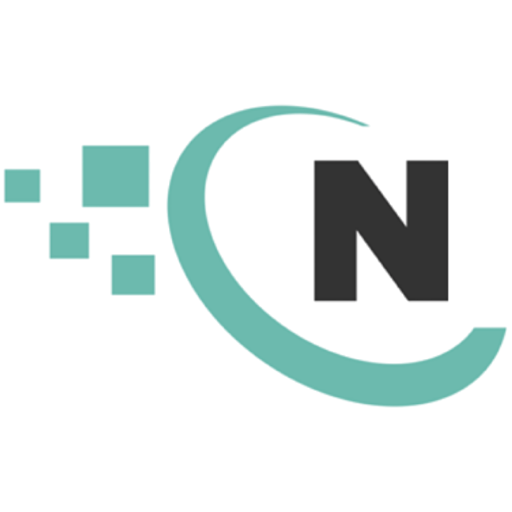
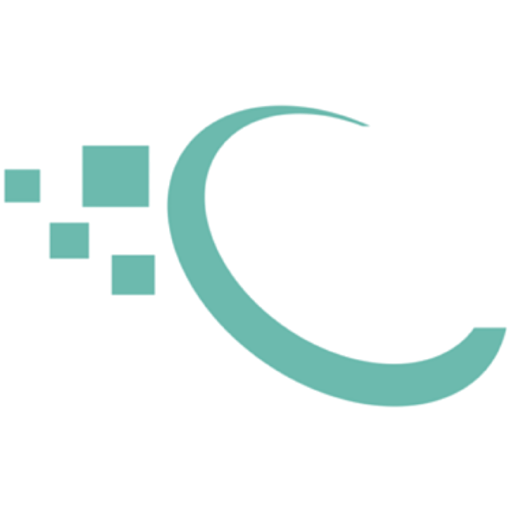
style(layout): exibir simbolo oficial da Nacif no menu lateral recolhido

Changed region(s): [[0.5938, 0.3125, 0.875, 0.5938]]

diff --git a/src/components/Layout.jsx b/src/components/Layout.jsx
@@ -79,6 +79,7 @@ function BrandLogo({ branding, compact = false, className = "" }) {
       url.includes("Logo-Principal") ||
       url.includes("Logo-black") ||
       url.includes("Logo-white") ||
+      url.includes("lg.png") ||
       url === branding?.logoDataUrl
     );
   };
@@ -96,7 +97,7 @@ function BrandLogo({ branding, compact = false, className = "" }) {
       <img
         src={logo}
         alt={`${branding?.appName || "Nacif"} ${branding?.appSuffix || "Electric"}`}
-        className={`h-full w-full object-contain ${compact ? "object-center" : "object-left"}`}
+        className={`h-full w-full object-contain transition-transform duration-200 group-hover:scale-105 ${compact ? "object-center" : "object-left"}`}
         onError={(e) => {
           const fallback = compact ? "/brand-mark-principal.png" : "/brand-logo-principal.png";
           if (e.currentTarget.src !== fallback) {
@@ -396,7 +397,7 @@ export default function Layout() {
         >
           <Link
             to="/"
-            className={`flex items-center transition-all ${
+            className={`group flex items-center transition-all ${
               sidebarCollapsed
                 ? "h-10 w-10 mx-auto justify-center rounded-xl hover:bg-[#F8FAFC]"
                 : "h-10 items-center gap-3 overflow-hidden"

diff --git a/dist/index.html b/dist/index.html
@@ -12,7 +12,7 @@
     <link rel="manifest" href="/manifest.json" />
     <title>NACIF Solutions Eletric — Gerador de Quadros Elétricos NBR 5410</title>
     <meta name="description" content="Geração automática de quadros elétricos, balanceamento de fases, diagrama unifilar e orçamento profissional conforme NBR 5410." />
-    <script type="module" crossorigin src="/assets/app-BcLLkH_F.js"></script>
+    <script type="module" crossorigin src="/assets/app-U09kMGsW.js"></script>
     <link rel="stylesheet" crossorigin href="/assets/app-BzUIQH4F.css">
   </head>
   <body>

diff --git a/src/lib/brandingDefaults.js b/src/lib/brandingDefaults.js
@@ -9,4 +9,4 @@ export const WEG_BLUE_DEEP = "#0f4f49";
 export const WEG_BLUE_SOFT = "#E8FCF8";
 export const WEG_BLUE_TINT = "#F2FFFC";
 export const WEG_BLUE_BORDER = "#BCEEE5";
-export const WEG_BRANDING_VERSION = "nacif-logo-2026-10-13-v2";
+export const WEG_BRANDING_VERSION = "nacif-logo-2026-10-19-v3";
